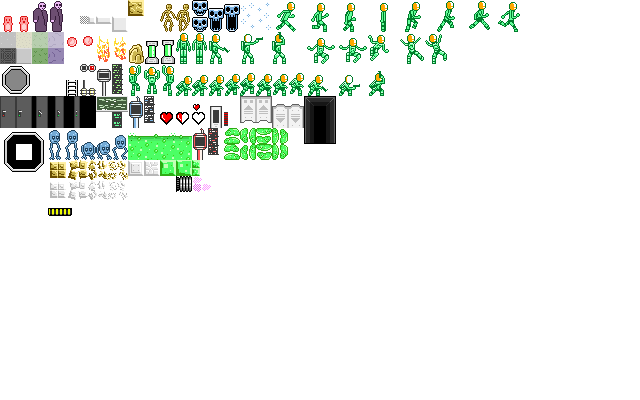
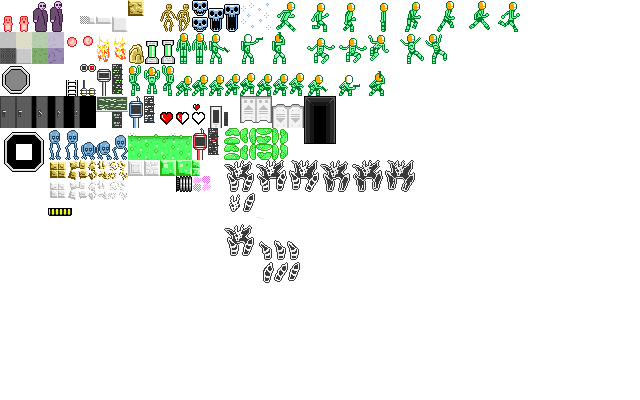
added new enemy

Changed region(s): [[0.3438, 0.39, 0.6562, 0.54], [0.3438, 0.57, 0.4688, 0.72]]

diff --git a/entities.py b/entities.py
@@ -363,13 +363,25 @@ class Door(Entity):
 
 
 class Terminal(Entity):
-    def __init__(self, message="It's a computer terminal"):
+    def __init__(self, message=None, text_color=settings.GREEN):
         Entity.__init__(self, 32, 64)
-        self.categories.update(["terminal", "interactable"])
-        self.message = message
+        self.categories.update(["terminal"])
+        self.zone = None
+        self.message = None
+        self.text_color = text_color
+        self.set_message(message)
+
+    def set_x(self, x):
+        Entity.set_x(self, x)
+        self.zone.set_center_x(self.center()[0])
+
+    def set_y(self, y):
+        Entity.set_y(self, y)
+        self.zone.set_center_y(self.center()[1])
 
     def update(self, input_state, world):
-        pass
+        if self.zone is not None:
+            self.zone.update(input_state, world)
 
     def sprite(self):
         return images.TERMINAL
@@ -398,9 +410,15 @@ class Terminal(Entity):
         :param message: string or list of strings
         """
         self.message = message
+        if self.message is not None:
+            if self.zone is None:
+                self.zone = MessageZone(message, self.width() + 64, self.height(), one_time=False, color=self.text_color)
+            self.zone.set_message(message)
+        else:
+            self.zone = None
 
     def interact(self, world):
-        global_state.hud.display_text(self.message, color=settings.GREEN)
+        pass
 
     def interact_action_text(self, world):
         return "read terminal"
@@ -408,14 +426,15 @@ class Terminal(Entity):
 
 class PuzzleTerminal(Terminal):
     def __init__(self, puzzle_giver):
-        Terminal.__init__(self)
-        self.categories.update(["puzzle_terminal"])
+        Terminal.__init__(self, "Press [K] to activate puzzle", text_color=settings.WHITE)
+        self.categories.update(["puzzle_terminal", "interactable"])
         self.active_callback = None
         self.on_success = None  # no-arg lambda
         self.puzzle_creator = puzzle_giver
         self.has_been_completed = False
 
     def update(self, input_state, world):
+        Terminal.update(self, input_state, world)
         if self.active_callback is not None:
             if self.active_callback[0] == puzzles.SUCCESS:
                 self.has_been_completed = True
@@ -785,18 +804,22 @@ class Zone(Entity):
 
 
 class MessageZone(Zone):
-    def __init__(self, message, w, h, one_time=True):
+    def __init__(self, message, w, h, one_time=True, color=settings.WHITE):
         Zone.__init__(self, w, h)
         self.message = message
+        self.color = color
         self.one_time = one_time
         self.has_shown = False
+
+    def set_message(self, message):
+        self.message = message
 
     def actor_entered(self, actor, world):
         if self.one_time and self.has_shown:
             return
 
         if actor.is_player():
-            global_state.hud.display_text(self.message, color=settings.WHITE, blocking=False)
+            global_state.hud.display_text(self.message, color=self.color, blocking=False)
             self.has_shown = True
 
     def actor_left(self, actor, world):

diff --git a/images.py b/images.py
@@ -39,6 +39,7 @@ BLUE_GUY_UP         = create("blue_guy", [R(48 + i*16, 128, 16, 32) for i in ran
 BLUE_GUY_DOWN       = create("blue_guy_down", [R(80 + i*16, 128, 16, 32) for i in range(0, 2)])
 BLUE_GUY_MIDDLE     = create("blue_guy_middle", [R(112, 128, 16, 32)])
 BROWN_GUY           = create("brown_guy", [r(10, 0, 1, 2), r(11, 0, 1, 2)])
+SKORG               = create("skorg", [R(224, 160, 32, 32), R(256, 160, 32, 32), R(224, 160, 32, 32), R(288, 160, 32, 32)])
 WHITE_WALL          = create("white_wall", [r(7, 1, 1, 1)])
 WHITE_WALL_SMOL     = create("white_wall_small", [R(88, 16, 8, 8)])
 WHITE_WALL_FANCY    = create("white_wall_fancy", [R(128, 160, 16, 16)])
@@ -213,6 +214,7 @@ PLAYER_DYING        = image_util.create_death_animation(PLAYER_IDLE,    sheet, "
 RED_GUY_DYING       = image_util.create_death_animation(RED_GUY,        sheet, "red_guy_dying", 4, 6)
 BLUE_GUY_DYING      = image_util.create_death_animation(BLUE_GUY_UP,    sheet, "blue_guy_dying", 4, 6)
 BROWN_GUY_DYING     = image_util.create_death_animation(BROWN_GUY,      sheet, "brown_guy_dying", 4, 6)
+SKORG_DYING         = image_util.create_death_animation(SKORG,          sheet, "skorg_dying", 4, 6)
 SLUG_DYING_U        = image_util.create_death_animation(ACID_SLUG_U_L,  sheet, "acid_slug_dying_u", 4, 6)
 SLUG_DYING_R        = image_util.create_death_animation(ACID_SLUG_R_L,  sheet, "acid_slug_dying_r", 4, 6)
 SLUG_DYING_D        = image_util.create_death_animation(ACID_SLUG_D_L,  sheet, "acid_slug_dying_d", 4, 6)

diff --git a/levels.py b/levels.py
@@ -181,8 +181,8 @@ class Level11(Level):
     def build_refs(self, refs, world):
         ref_items = list()
 
-        txt = "you can move with [WASD] or [ARROW KEYS]"
-        ref_items.append(self.fetch_ref("message_zone_1", entities.MessageZone(txt, 320, 4*32), refs))
+        txt = "press [WASD] or [ARROW KEYS] to move"
+        ref_items.append(self.fetch_ref("how_to_walk", entities.Terminal(message=txt), refs))
 
         txt = "you'll die in this place, like the others"
         ref_items.append(self.fetch_ref("terminal_2", entities.Terminal(txt), refs))

diff --git a/entity_factory.py b/entity_factory.py
@@ -64,6 +64,7 @@ def init_entities():
     _put("enemy_sticky", _spawner(lambda: enemies.StickyEnemy()))
     _put("enemy_sticky_ccw", _spawner(lambda: enemies.StickyEnemy(clockwise=False)))
     _put("enemy_dodger", _spawner(lambda: enemies.DodgeEnemy()))
+    _put("enemy_skorg", _spawner(lambda: enemies.Skorg()))
 
     print("INFO\tfinished initializing ", len(ALL_ENTITIES), " entities")
 

diff --git a/enemies.py b/enemies.py
@@ -152,6 +152,17 @@ class SmartEnemy(Enemy):
         self.start_chasing()
 
 
+class Skorg(Enemy):
+    def __init__(self):
+        Enemy.__init__(self, 64, 64)
+
+    def sprite(self):
+        return images.SKORG
+
+    def death_sprite(self, cause=None):
+        return images.SKORG_DYING
+
+
 class DodgeEnemy(SmartEnemy):
     def __init__(self):
         SmartEnemy.__init__(self)

diff --git a/settings.py b/settings.py
@@ -8,7 +8,7 @@ CONFIGS = {
 }
 
 
-STARTING_LEVEL_OVERRIDE = None
+STARTING_LEVEL_OVERRIDE = "level_03"
 
 
 FPS_THROTTLE = 1  # frames will only be drawn every X updates
